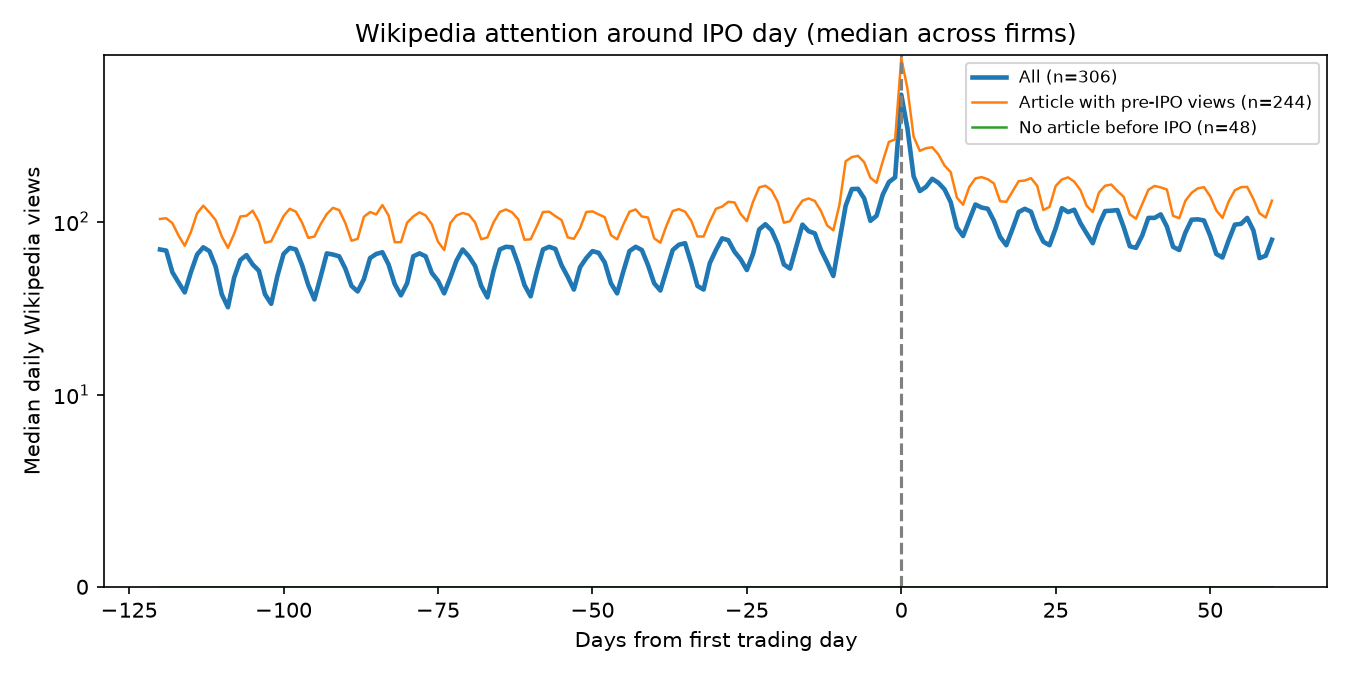
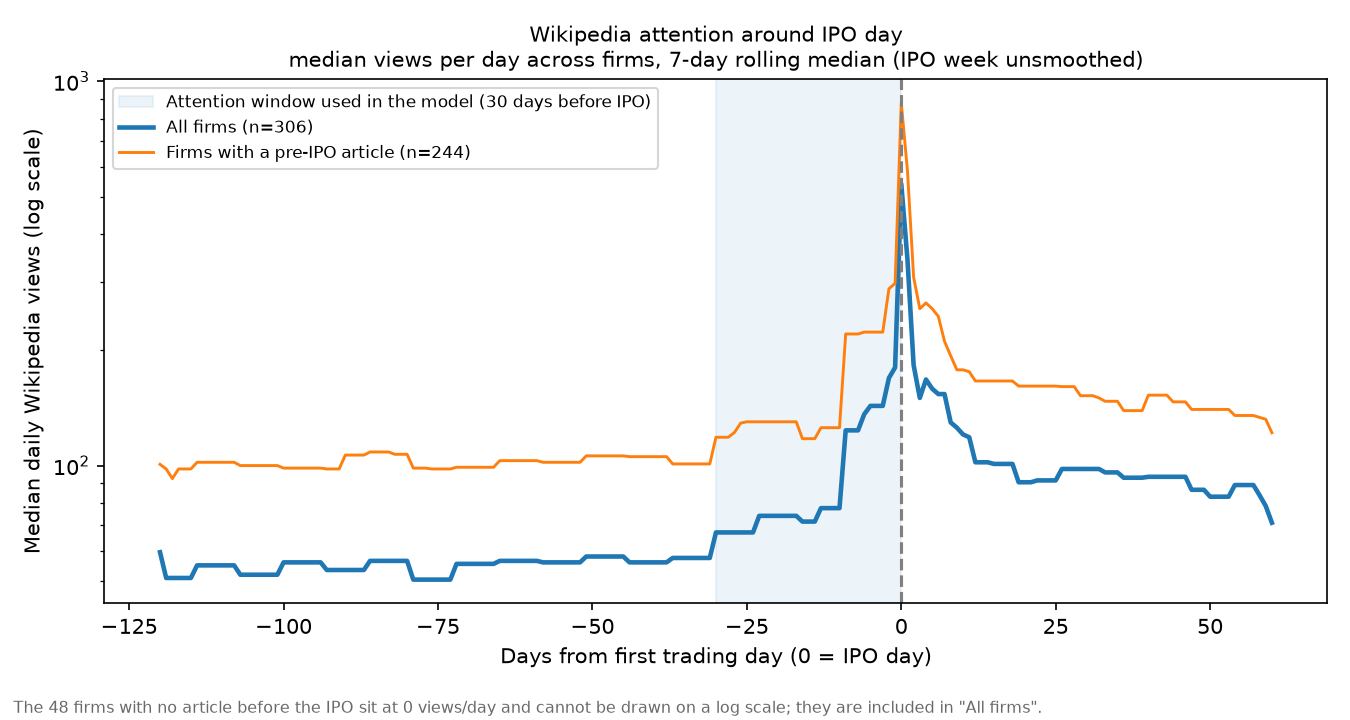
Attention curve: drop undrawable no-article line, shade model window, 7-day smoothing, clearer labels

diff --git a/scripts/make_figures.py b/scripts/make_figures.py
@@ -2,12 +2,20 @@
 import pandas as pd, numpy as np, matplotlib; matplotlib.use('Agg'); import matplotlib.pyplot as plt, os
 P = 'data/public'; os.makedirs('figures', exist_ok=True)
 c = pd.read_csv(f'{P}/attention_curve.csv'); c = c[~c.suppressed]
-fig, ax = plt.subplots(figsize=(9, 4.5))
-for g, d in c[c.include_no_article & (c.dimension.isin(['All', 'article']))].groupby('group'):
-    ax.plot(d.rel_day, d.median_views, label=f'{g} (n={int(d.n.iloc[0])})', lw=2.2 if g == 'All' else 1.2)
-ax.axvline(0, ls='--', c='grey'); ax.set_yscale('symlog', linthresh=10); ax.set_ylim(bottom=0)
-ax.set(xlabel='Days from first trading day', ylabel='Median daily Wikipedia views', title='Wikipedia attention around IPO day (median across firms)')
-ax.legend(fontsize=8); fig.tight_layout(); fig.savefig('figures/attention_curve.png', dpi=150)
+fig, ax = plt.subplots(figsize=(9, 4.8))
+ax.axvspan(-30, 0, color='tab:blue', alpha=0.08, label='Attention window used in the model (30 days before IPO)')
+cc = c[c.include_no_article]
+for g, col, lw in [('All', 'tab:blue', 2.2), ('Article with pre-IPO views', 'tab:orange', 1.4)]:
+    d = cc[cc.group == g].sort_values('rel_day')
+    sm = d.median_views.rolling(7, center=True, min_periods=1).median()
+    sm[d.rel_day.abs().values <= 3] = d.median_views[d.rel_day.abs().values <= 3]  # keep the IPO spike unsmoothed
+    lab = 'All firms' if g == 'All' else 'Firms with a pre-IPO article'
+    ax.plot(d.rel_day, sm, c=col, lw=lw, label=f'{lab} (n={int(d.n.iloc[0])})')
+ax.axvline(0, ls='--', c='grey'); ax.set_yscale('log')
+ax.set(xlabel='Days from first trading day (0 = IPO day)', ylabel='Median daily Wikipedia views (log scale)')
+ax.set_title('Wikipedia attention around IPO day\nmedian views per day across firms, 7-day rolling median (IPO week unsmoothed)', fontsize=10)
+fig.text(0.01, 0.01, 'The 48 firms with no article before the IPO sit at 0 views/day and cannot be drawn on a log scale; they are included in "All firms".', fontsize=7.5, color='dimgrey')
+ax.legend(fontsize=8, loc='upper left'); fig.tight_layout(rect=(0, 0.04, 1, 1)); fig.savefig('figures/attention_curve.png', dpi=150)
 b = pd.read_csv(f'{P}/attention_bins.csv'); b = b[b.include_no_article & (b.bins == 5)]
 fig, ax = plt.subplots(figsize=(7, 4.5))
 for o, d in b.groupby('outcome'):
